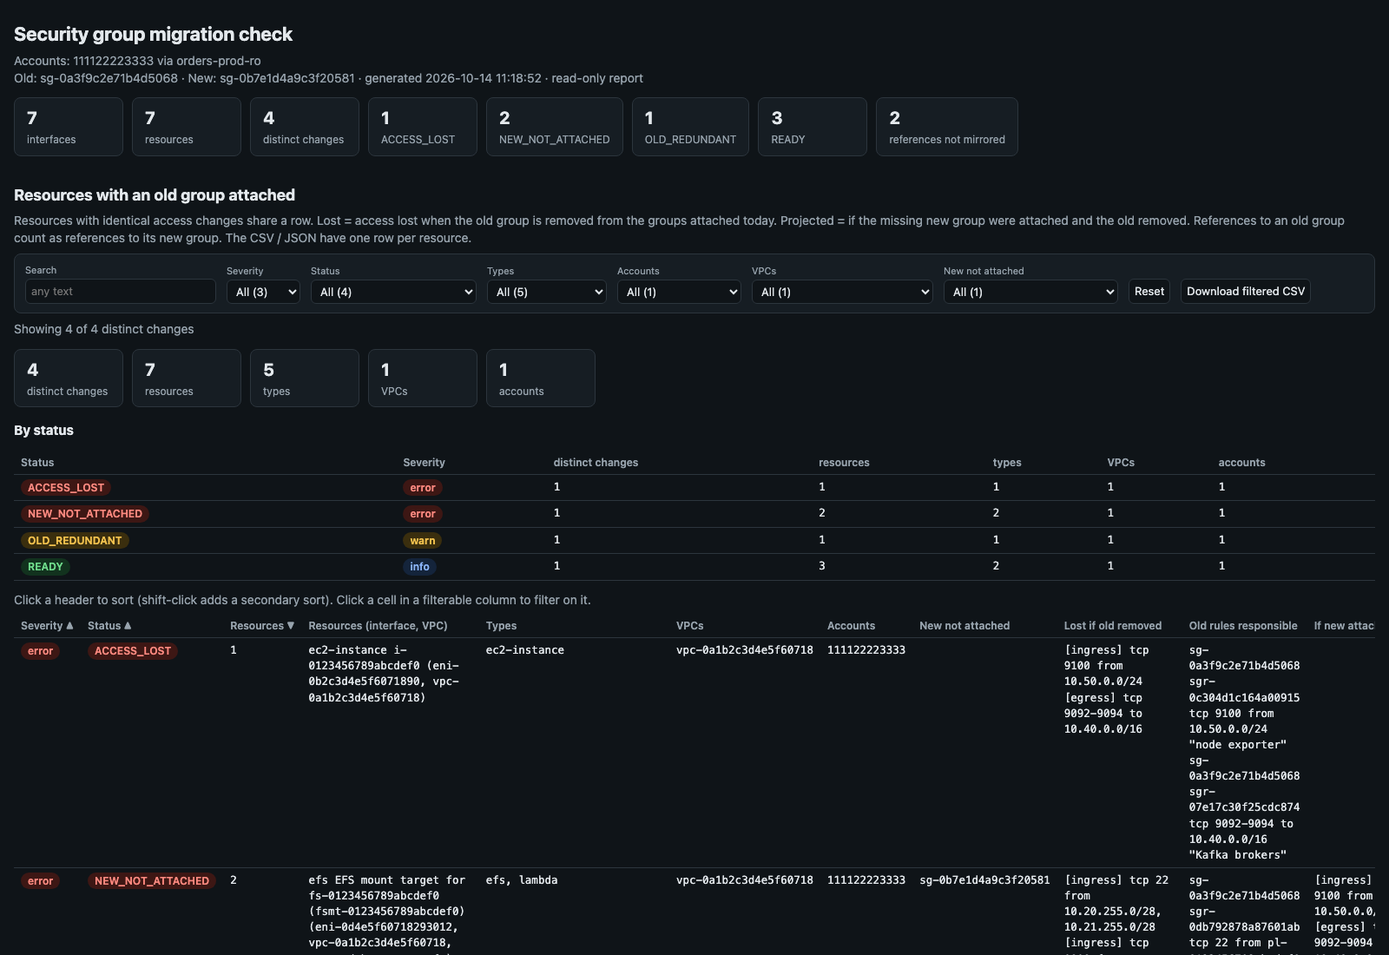
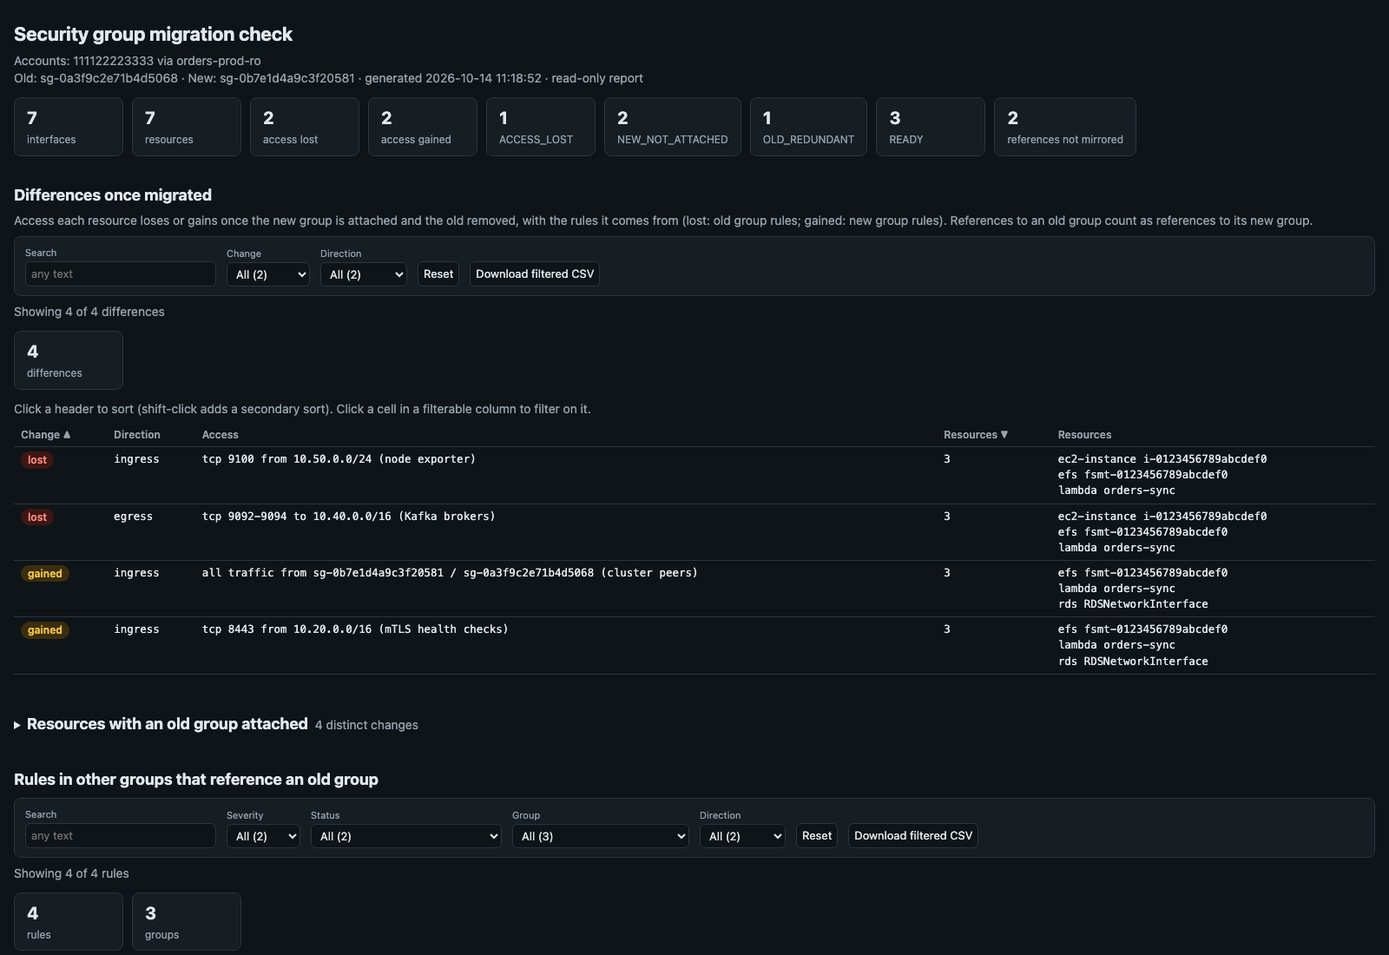
sg_migration_check: distill the default output to the differences once migrated
The text report now lists, by default, each access lost or gained once the
new group is attached and the old removed, with the rules it comes from and
the resources it applies to; then unchanged resources, resources still
missing the new group, and unmirrored references. The per-group status,
removal-now vs projected detail and every responsible rule move behind
--show-changes. The HTML report leads with a differences table and folds the
detailed table; resources gain net_lost / net_gained in the CSV and JSON.

diff --git a/tools/firewall/sg_migration_check.py b/tools/firewall/sg_migration_check.py
@@ -47,13 +47,18 @@ sg_rule_inventory.py: --profile for its own account, other accounts named by
 ARNs through their local profiles (never -priv / -cpar), bare ids in the
 --profile account, else the single ARN account, else AWS_PROFILE / default.
 
-Resources whose change is identical (status, access lost / gained, rules
-responsible) are listed together as one group in the text and HTML reports;
-the CSV / JSON keep one row per resource with its group id.
+By default the text report distills this to the differences once migrated
+(new group attached, old removed): each access lost or gained once, with the
+rules it comes from and the resources it applies to; then the resources
+whose access stays the same, those still missing the new group, and the
+unmirrored references. --show-changes prints the full detail: resources
+whose change is identical (status, access lost / gained, rules responsible)
+as one group, with removal now vs once migrated and every rule responsible.
 
-Reports: text summary on screen (--show-changes lists the access changes),
-plus auto-saved HTML (interactive: filter by status, resource type, VPC ...),
-CSV (one row per resource) and JSON under reports/sg_migration_check/DATE/.
+Reports: text on screen, plus auto-saved HTML (the differences once
+migrated first; the detail per group of resources folded, filterable by
+status, resource type, VPC ...), CSV (one row per resource, with its group
+id and net change) and JSON under reports/sg_migration_check/DATE/.
 
 Usage:
 
@@ -73,6 +78,7 @@ import datetime as dt
 import json
 import logging
 import os
+import re
 import sys
 from collections import defaultdict
 from dataclasses import asdict, dataclass, field
@@ -97,6 +103,7 @@ from lib.security_groups import (SG, SgRule, load_groups, parse_account_targets,
 log = logging.getLogger("sg_migration_check")
 TOOL = "sg_migration_check"
 MAX_CIDRS_SHOWN = 8
+MAX_RESOURCES_SHOWN = 5
 BROAD_PREFIX = {4: 16, 6: 48}      # ranges wider than this are named by their block, not enumerated
 Access = dict[str, list[Box]]          # address space -> disjoint boxes
 
@@ -171,6 +178,25 @@ def fmt_access(acc: Access, egress: bool, rename: dict[str, str] | None = None) 
                   for sp, ivs in by_sp.items() for a in fmt_ranges(sp, ivs)]
              for pp, by_sp in ranges.items()}
     return [f"{fmt_proto_ports(pr, ports)} {prep} {', '.join(a)}" for (pr, ports), a in sorted(by_pp.items())]
+
+
+def net_lines(acc: Access, egress: bool, rename: dict[str, str], gids: list[str],
+              rules: dict[str, list[SgRule]]) -> list[str]:
+    """fmt_access lines, each followed by the descriptions (else ids) of the rules of `gids` it
+    comes from: '[egress] tcp 9092-9094 to 10.40.0.0/16 (Kafka brokers)'. Address lists are cut
+    at MAX_CIDRS_SHOWN (the full change is in the lost / projected fields)."""
+    by_pp = defaultdict(lambda: defaultdict(list))
+    for sp, boxes in acc.items():
+        for b in boxes:
+            by_pp[b[:2]][sp].append(b)
+    out = []
+    for _, sub in sorted(by_pp.items()):
+        why = dict.fromkeys(r.description or r.rule_id for gid in gids for r in rules.get(gid, [])
+                            if r.egress == egress and any(intersects(b, x) for sp, b in r.boxes
+                                                          for x in sub.get(rename.get(sp, sp), [])))
+        line = cut(fmt_access(sub, egress, rename))[0]
+        out.append(f"[{'egress' if egress else 'ingress'}] {line}" + (f" ({', '.join(why)})" if why else ""))
+    return out
 
 
 def responsible(acc: Access, gids: list[str], rules: dict[str, list[SgRule]], egress: bool,
@@ -261,6 +287,8 @@ class ResourceRow:
     detail: str = ""
     managed_by: str = ""             # requester of a requester-managed interface
     change_group: str = ""           # resources with identical access changes share a group (G1, G2 ...)
+    net_lost: list[str] = field(default_factory=list)     # once migrated (new attached, old removed),
+    net_gained: list[str] = field(default_factory=list)   # with the rules each line comes from
 
 
 CSV_COLUMNS = list(ResourceRow.__dataclass_fields__)
@@ -275,10 +303,13 @@ def review(n: dict, account: str, region: str, olds: list[str], news: list[str],
     after = [g for g in cur if g not in old_here]
     projected = after + [g for g in new_missing if g not in after]
     rtype, label = resource_of(n)
-    lost, lost_rules, plost, pgained = [], [], [], []
+    lost, lost_rules, plost, pgained, net_lost, net_gained = [], [], [], [], [], []
     for egress in (False, True):
         before_acc = access_of(cur, rules, egress, rename)
         gone = minus(before_acc, access_of(after, rules, egress, rename))
+        final = access_of(projected, rules, egress, rename)
+        net_lost += net_lines(minus(before_acc, final), egress, rename, old_here, rules)
+        net_gained += net_lines(minus(final, before_acc), egress, rename, new_missing, rules)
         lost += [f"[{'egress' if egress else 'ingress'}] {x}" for x in fmt_access(gone, egress, rename)]
         lost_rules += responsible(gone, old_here, rules, egress, rename)
         if new_missing:
@@ -303,7 +334,8 @@ def review(n: dict, account: str, region: str, olds: list[str], news: list[str],
                                                         "nothing: other groups attached already grant its access")
     return ResourceRow(sev, status, rtype, label, n["NetworkInterfaceId"], account, region, vpc, cur, old_here,
                        new_here, new_missing, lost, lost_rules, plost, pgained, detail,
-                       n.get("RequesterId", "?") if n.get("RequesterManaged") else "")
+                       n.get("RequesterId", "?") if n.get("RequesterManaged") else "",
+                       net_lost=net_lost, net_gained=net_gained)
 
 
 def change_groups(rows: list[ResourceRow]) -> list[dict]:
@@ -368,9 +400,81 @@ def cut(lines: list[str]) -> list[str]:
     return out
 
 
+def short_label(r: ResourceRow) -> str:
+    """'lambda orders-sync'; an EFS mount target by its id."""
+    m = re.search(r"\((fsmt-[0-9a-f]+)\)", r.resource) if r.resource_type == "efs" else None
+    return f"{r.resource_type} {m.group(1) if m else r.resource}"
+
+
+def names(rs: list[ResourceRow]) -> str:
+    """Resource labels, cut at MAX_RESOURCES_SHOWN."""
+    out = [short_label(r) for r in rs[:MAX_RESOURCES_SHOWN]]
+    return ", ".join(out + ([f"... {len(rs) - MAX_RESOURCES_SHOWN} more"] if len(rs) > MAX_RESOURCES_SHOWN else []))
+
+
+def net_differences(rows: list[ResourceRow]) -> list[dict]:
+    """Each access lost or gained once migrated, with the resources it applies to."""
+    out = []
+    for change, attr in (("lost", "net_lost"), ("gained", "net_gained")):
+        who: dict[str, list[ResourceRow]] = {}
+        for r in sorted(rows, key=lambda r: (r.resource_type, short_label(r), r.eni_id)):
+            for x in getattr(r, attr):
+                who.setdefault(x, []).append(r)
+        for x, rs in who.items():
+            direction, _, access = x.partition("] ")
+            out.append({"change": change, "direction": direction[1:], "access": access, "count": len(rs),
+                        "resources": [short_label(r) for r in rs], "enis": [r.eni_id for r in rs]})
+    return out
+
+
+def print_concise(payload: dict, rows: list[ResourceRow], refs: list[dict]) -> None:
+    """The differences once migrated (new attached, old removed): each access lost or gained once,
+    with the resources it applies to (changes applying to the same resources together); then
+    the resources left unchanged, those still missing the new group, and unmirrored references."""
+    print()
+    name = {g["group_id"]: g["name"] for g in payload.get("groups", [])}
+    label = lambda gid: f"{name[gid]} ({gid})" if name.get(gid) else gid  # noqa: E731
+    accts = ", ".join(f"{a['account']} ({('profile ' + a['profile']) if a['profile'] else 'default credentials'})"
+                      for a in payload["accounts"])
+    print(f"{', '.join(map(label, payload['old']))} -> {', '.join(map(label, payload['new']))}   account {accts}")
+    for w in payload["warnings"]:
+        print(f"[WARN ] {w}")
+    if not rows:
+        print("\nThe old group is attached to nothing.")
+    rows = sorted(rows, key=lambda r: (r.resource_type, short_label(r), r.eni_id))
+    if any(r.net_lost or r.net_gained for r in rows):
+        print("\nOnce migrated (new group attached, old removed):")
+    together: dict[tuple, list[str]] = {}            # changes applying to the same resources
+    for d in net_differences(rows):
+        together.setdefault((d["change"], tuple(d["enis"])), []).append(f"[{d['direction']}] {d['access']}")
+    for (change, enis), xs in sorted(together.items(), key=lambda kv: (kv[0][0] != "lost", -len(kv[0][1]))):
+        rs = [r for r in rows if r.eni_id in enis]
+        print(f"\n{'-' if change == 'lost' else '+'} {change} by {len(rs)} resource(s): {names(rs)}")
+        for x in xs:
+            print(f"    {x}")
+    same = [r for r in rows if not r.net_lost and not r.net_gained]
+    if same:
+        print(f"\n= {len(same)} resource(s) keep the same access: {names(same)}")
+    attach = [r for r in rows if r.new_missing]
+    if attach:
+        print(f"\n{len(attach)} resource(s) still need the new group attached before the old is removed: {names(attach)}")
+    other = [r for r in rows if r.status == "NEW_IN_OTHER_VPC"]
+    if other:
+        print(f"{len(other)} of them are in another VPC than the new group: {names(other)}")
+    nm = [x for x in refs if x["status"] == "REFERENCE_NOT_MIRRORED"]
+    if nm:
+        print(f"\nRules in other groups referencing the old group with no match for the new ({len(nm)}):")
+        for x in nm:
+            print(f"  {x['group_id']} {x['rule']}" + (f' "{x["description"]}"' if x["description"] else ""))
+    print("\n(--show-changes: status per resource, removal now vs once migrated, and every rule responsible)")
+
+
 def print_report(payload: dict, rows: list[ResourceRow], cgroups: list[dict], refs: list[dict], show: bool) -> None:
-    """Summary per group of resources with identical access changes; the changes and responsible
-    rules only with `show`."""
+    """Concise net changes (print_concise); with `show`, the summary per group of resources with
+    identical access changes, every change and the rules responsible."""
+    if not show:
+        print_concise(payload, rows, refs)
+        return
     print()
     for a in payload["accounts"]:
         print(f"account {a['account']} via {('profile ' + a['profile']) if a['profile'] else 'default credentials'} "
@@ -394,29 +498,37 @@ def print_report(payload: dict, rows: list[ResourceRow], cgroups: list[dict], re
         print(f"  [{g['severity'].upper():<5}] {g['status']:<17} {g['change_group']}: {g['count']} resource(s){extra}")
         for x in g["resources"]:
             print(f"      {x}")
-        if show:
-            print(f"      {g['detail']}")
-            for title, xs in (("lost if old removed", g["lost"]), ("old rules responsible", g["lost_rules"]),
-                              ("if new attached, lost", g["projected_lost"]),
-                              ("if new attached, gained", g["projected_gained"])):
-                for x in (cut(xs) if "rules" not in title else xs):
-                    print(f"      {title}: {x}")
+        print(f"      {g['detail']}")
+        for title, xs in (("lost if old removed", g["lost"]), ("old rules responsible", g["lost_rules"]),
+                          ("if new attached, lost", g["projected_lost"]),
+                          ("if new attached, gained", g["projected_gained"])):
+            for x in (cut(xs) if "rules" not in title else xs):
+                print(f"      {title}: {x}")
     if refs:
         nm = sum(x["status"] == "REFERENCE_NOT_MIRRORED" for x in refs)
         print(f"\n{len(refs)} rule(s) in other groups reference an old group; {nm} without a matching rule for the new")
-        for x in refs if show else [x for x in refs if x["status"] == "REFERENCE_NOT_MIRRORED"]:
+        for x in refs:
             print(f"  [{x['severity'].upper():<5}] {x['status']:<22} {x['group_id']} {x['rule_id']} {x['rule']}")
-    if not show:
-        print("(--show-changes lists the access lost / gained per resource and the rules responsible)")
 
 
 def render_html(payload: dict, rows: list[ResourceRow], cgroups: list[dict], refs: list[dict]) -> str:
     """Interactive HTML: one row per group of resources with identical access changes (filter by
     status, type, VPC ...) and the references."""
+    diffs = net_differences(rows)
     status_badge = {"READY": "ok", "ACCESS_LOST": "error", "NEW_NOT_ATTACHED": "error", "NEW_IN_OTHER_VPC": "error",
                     "OLD_REDUNDANT": "warn", "REFERENCE_NOT_MIRRORED": "warn", "REFERENCE_MIRRORED": "ok"}
     tables = [{
-        "id": "r", "title": "Resources with an old group attached", "row_label": "distinct changes",
+        "id": "d", "title": "Differences once migrated", "row_label": "differences",
+        "note": "Access each resource loses or gains once the new group is attached and the old removed, with the "
+                "rules it comes from (lost: old group rules; gained: new group rules). References to an old group "
+                "count as references to its new group" + ("." if payload["rename"] else " (off).")
+                + (" No resource's access changes." if not diffs else ""),
+        "columns": [["change", "Change"], ["direction", "Direction"], ["access", "Access"], ["count", "Resources"],
+                    ["resources", "Resources"]],
+        "rows": diffs, "filters": ["change", "direction"], "wrap": ["access", "resources"], "lines": ["resources"],
+        "badges": {"change": {"lost": "error", "gained": "warn"}},
+        "order": {"change": ["lost", "gained"]}, "sort": [["change", 1], ["count", -1]]}, {
+        "id": "r", "title": "Resources with an old group attached", "row_label": "distinct changes", "collapsed": True,
         "note": "Resources with identical access changes share a row. Lost = access lost when the old group is "
                 "removed from the groups attached today. Projected = if the missing new group were attached and "
                 "the old removed. References to an old group count as references to its new group"
@@ -448,7 +560,8 @@ def render_html(payload: dict, rows: list[ResourceRow], cgroups: list[dict], ref
     for r in rows:
         counts[r.status] += 1
     cards = [(len(rows), "interfaces"), (len({r.resource for r in rows}), "resources"),
-             (len(cgroups), "distinct changes")] + [(v, k) for k, v in sorted(counts.items())] + \
+             (sum(d["change"] == "lost" for d in diffs), "access lost"),
+             (sum(d["change"] == "gained" for d in diffs), "access gained")] + [(v, k) for k, v in sorted(counts.items())] + \
         ([(sum(x["status"] == "REFERENCE_NOT_MIRRORED" for x in refs), "references not mirrored")] if refs else [])
     meta = ["Accounts: " + "; ".join(f"{a['account']} via {a['profile'] or 'default credentials'}" for a in payload["accounts"]),
             f"Old: {', '.join(payload['old'])} · New: {', '.join(payload['new'])} · generated {payload['generated']} · "
@@ -486,8 +599,9 @@ def main() -> int:
     p.add_argument("--no-equate-references", action="store_true",
                    help="Do not treat references to an old group as references to its new group")
     p.add_argument("--show-changes", action="store_true",
-                   help="Text report: list the access lost / gained per resource and the rules responsible "
-                        "(the HTML / CSV / JSON reports always include them)")
+                   help="Text report: the full detail (status per resource, access lost if the old is removed "
+                        "now and once migrated, every rule responsible) instead of only the differences once "
+                        "migrated (the HTML / CSV / JSON reports always include it)")
     add_profile_args(p)
     add_output_args(p)
     args = p.parse_args()

diff --git a/tools/firewall/tests/test_sg_migration_check.py b/tools/firewall/tests/test_sg_migration_check.py
@@ -185,6 +185,71 @@ def test_cut():
         "tcp 1 from " + ", ".join(f"10.0.0.{i}/32" for i in range(8)) + ", ... 2 more", "tcp 2 to a"]
 
 
+def test_review_net_change_once_migrated():
+    old = [rule("sg-old", "10.0.0.0/8", desc="app"), rule("sg-old", "10.9.0.0/16", 22, 22)]
+    rules = rules_with(old, [rule("sg-new", "10.0.0.0/8"), rule("sg-new", "10.20.0.0/16", 8443, 8443, desc="health")])
+    attached = smc.review(eni(["sg-old", "sg-new"]), "1", "r", ["sg-old"], ["sg-new"], GROUPS, rules, {})
+    missing = smc.review(eni(["sg-old"], id="eni-2"), "1", "r", ["sg-old"], ["sg-new"], GROUPS, rules, {})
+    # lost: old rule ids stand in for missing descriptions; gained: only the new group's rules
+    assert attached.net_lost == missing.net_lost == [f"[ingress] tcp 22 from 10.9.0.0/16 ({old[1].rule_id})"]
+    assert attached.net_gained == []
+    assert missing.net_gained == ["[ingress] tcp 8443 from 10.20.0.0/16 (health)"]
+
+
+def sample_rows():
+    rules = rules_with([rule("sg-old", "10.0.0.0/8", desc="app"), rule("sg-old", "10.9.0.0/16", 22, 22, desc="ssh")],
+                       [rule("sg-new", "10.0.0.0/8"), rule("sg-new", "10.20.0.0/16", 8443, 8443, desc="health")])
+    enis = [eni(["sg-old", "sg-new"], id="eni-1", Attachment={"InstanceId": "i-1"}),
+            eni(["sg-old"], id="eni-2", Attachment={"InstanceId": "i-2"}),
+            eni(["sg-old", "sg-new"], id="eni-3", InterfaceType="interface", RequesterManaged=True,
+                Description="EFS mount target for fs-1 (fsmt-0abc)")]
+    rules["sg-old"].append(rule("sg-old", "10.30.0.0/16", 6379, 6379))
+    rules["sg-new"].append(rule("sg-new", "10.30.0.0/16", 6379, 6379))
+    return [smc.review(n, "1", "r", ["sg-old"], ["sg-new"], GROUPS, rules, {}) for n in enis]
+
+
+def test_net_differences():
+    diffs = smc.net_differences(sample_rows())
+    assert [(d["change"], d["access"], d["resources"]) for d in diffs] == [
+        ("lost", "tcp 22 from 10.9.0.0/16 (ssh)", ["ec2-instance i-1", "ec2-instance i-2", "efs fsmt-0abc"]),
+        ("gained", "tcp 8443 from 10.20.0.0/16 (health)", ["ec2-instance i-2"])]
+
+
+def test_print_concise(capsys):
+    rows = sample_rows()
+    refs = [{"severity": "warn", "status": "REFERENCE_NOT_MIRRORED", "group_id": "sg-x", "rule_id": "sgr-x",
+             "rule": "tcp 5432 from sg-old", "description": "db"},
+            {"severity": "info", "status": "REFERENCE_MIRRORED", "group_id": "sg-y", "rule_id": "sgr-y",
+             "rule": "tcp 80 from sg-old", "description": ""}]
+    payload = {"accounts": [{"account": "1", "profile": "p", "profile_source": "--profile"}], "old": ["sg-old"],
+               "new": ["sg-new"], "warnings": [], "rename": {}, "groups": [{"group_id": "sg-old", "name": "legacy"}]}
+    smc.print_report(payload, rows, smc.change_groups(rows), refs, False)
+    out = capsys.readouterr().out
+    assert "legacy (sg-old) -> sg-new   account 1 (profile p)" in out
+    assert ("- lost by 3 resource(s): ec2-instance i-1, ec2-instance i-2, efs fsmt-0abc\n"
+            "    [ingress] tcp 22 from 10.9.0.0/16 (ssh)") in out
+    assert "+ gained by 1 resource(s): ec2-instance i-2\n    [ingress] tcp 8443 from 10.20.0.0/16 (health)" in out
+    assert "1 resource(s) still need the new group attached before the old is removed: ec2-instance i-2" in out
+    assert 'sg-x tcp 5432 from sg-old "db"' in out and "sg-y" not in out
+    assert "keep the same access" not in out and "NEW_NOT_ATTACHED" not in out and "6379" not in out
+    smc.print_report(payload, [], [], [], False)
+    assert "attached to nothing" in capsys.readouterr().out
+    smc.print_report(payload, rows, smc.change_groups(rows), refs, True)
+    out = capsys.readouterr().out
+    assert "NEW_NOT_ATTACHED" in out and "old rules responsible" in out and "REFERENCE_MIRRORED" in out
+
+
+def test_render_html_leads_with_differences():
+    rows = sample_rows()
+    payload = {"accounts": [], "old": ["sg-old"], "new": ["sg-new"], "rename": {}, "warnings": [], "generated": "x"}
+    html = smc.render_html(payload, rows, smc.change_groups(rows), [])
+    data = json.loads(html.split('<script id="data" type="application/json">')[1].split("</script>")[0]
+                      .replace("\\u003c", "<"))
+    tables = data["tables"]
+    assert [t["id"] for t in tables] == ["d", "r"] and tables[1]["collapsed"] is True and "collapsed" not in tables[0]
+    assert [(d["change"], d["count"]) for d in tables[0]["rows"]] == [("lost", 3), ("gained", 1)]
+
+
 # --------------------------------------------------------------------------- #
 # moto end to end
 # --------------------------------------------------------------------------- #

diff --git a/tools/firewall/doc/sg_migration_check.md b/tools/firewall/doc/sg_migration_check.md
@@ -100,21 +100,49 @@ in `change_group`; the JSON also has `change_groups`.
 | `--account-profile ACCT=PROFILE` | Force the profile for an account (repeatable) |
 | `--exclude-profile-suffix LIST` | Profile suffixes never chosen (default `-priv,-cpar`) |
 | `--no-equate-references` | Do not treat references to an old group as references to its new group |
-| `--show-changes` | Text report: list the access lost / gained per resource and the rules responsible |
+| `--show-changes` | Text report: the full detail per group of resources (status, access lost if the old is removed now and once migrated, every rule responsible) instead of only the differences once migrated |
 
 Plus the common output flags, described under [Reports](../README.md#reports).
 
 ## Output
 
-- **Text**:
-  - accounts, old and new groups, and how references are equated;
-  - one entry per group of resources with identical changes: status, number of resources, and how many access changes; then each resource (type, label, interface, VPC, requester for managed interfaces);
-  - rules referencing the old group that are not mirrored;
-  - with `--show-changes`, every access change and the rules responsible.
-- **CSV**: one row per resource (interface), with its `change_group`. List cells are `; `-separated.
+- **Text**, by default only the differences once migrated (new group attached, old removed):
+  - each access lost (`-`) or gained (`+`) once, with the rules it comes from (description, else rule id) and the resources it applies to; changes that apply to the same resources are listed together;
+  - the resources whose access stays the same (`=`), and those that still need the new group attached;
+  - rules referencing the old group that are not mirrored.
+
+  Resource lists stop after 5 and address lists after 8; the HTML report has them all. For the sample in the screenshot:
+
+  ```text
+  legacy-orders-app (sg-0a3f9c2e71b4d5068) -> orders-app-v2 (sg-0b7e1d4a9c3f20581)   account 111122223333 (profile orders-prod-ro)
+
+  Once migrated (new group attached, old removed):
+
+  - lost by 3 resource(s): ec2-instance i-0123456789abcdef0, efs fsmt-0123456789abcdef0, lambda orders-sync
+      [ingress] tcp 9100 from 10.50.0.0/24 (node exporter)
+      [egress] tcp 9092-9094 to 10.40.0.0/16 (Kafka brokers)
+
+  + gained by 3 resource(s): efs fsmt-0123456789abcdef0, lambda orders-sync, rds RDSNetworkInterface
+      [ingress] all traffic from sg-0b7e1d4a9c3f20581 / sg-0a3f9c2e71b4d5068 (cluster peers)
+      [ingress] tcp 8443 from 10.20.0.0/16 (mTLS health checks)
+
+  = 3 resource(s) keep the same access: ec2-instance i-0abc123def4567890, ec2-instance i-0def456abc7890123, load-balancer app/orders-internal/0123456789abcdef
+
+  3 resource(s) still need the new group attached before the old is removed: efs fsmt-0123456789abcdef0, lambda orders-sync, rds RDSNetworkInterface
+
+  Rules in other groups referencing the old group with no match for the new (2):
+    sg-0e8f4c1a7d2b59360 tcp 6379 from sg-0a3f9c2e71b4d5068 "orders app session cache"
+    sg-0fedcba9876543210 tcp 8081 to sg-0a3f9c2e71b4d5068 "admin port"
+
+  (--show-changes: status per resource, removal now vs once migrated, and every rule responsible)
+  ```
+
+  With `--show-changes`: accounts and how references are equated; one entry per group of resources with identical changes (status, resources with interface, VPC and requester); access lost if the old group is removed now and once migrated; every old rule responsible; all references.
+- **CSV**: one row per resource (interface), with its `change_group` and its net change once migrated (`net_lost`, `net_gained`). List cells are `; `-separated.
 - **JSON**: `{generated, accounts, old, new, rename, groups, warnings, resources, change_groups, references}`.
 - **HTML**:
-  - one row per group of identical changes, with its resources, filterable by severity, status, type, account, VPC and missing new group, plus a summary by status;
+  - first, the differences once migrated: one row per access lost or gained, with the resources it applies to;
+  - folded under its heading (click to open), one row per group of identical changes, with its resources, filterable by severity, status, type, account, VPC and missing new group, plus a summary by status;
   - the references.
   - Full window width.
 
